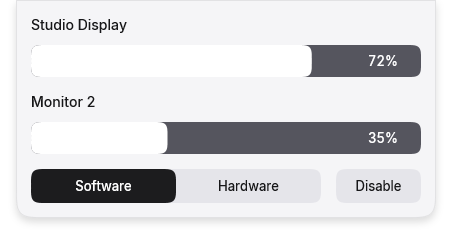
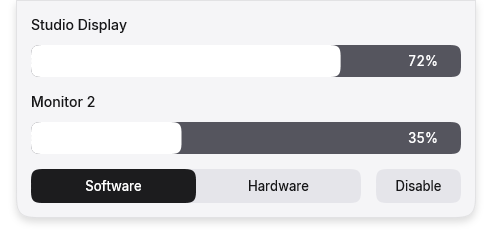
fix: widen the island panel to 460 DIP

diff --git a/tests/RendererTests.cpp b/tests/RendererTests.cpp
@@ -46,35 +46,35 @@ int wmain(int argc, wchar_t** argv) try {
         const std::wstring path = argc > 1 ? std::wstring(argv[1]) + L"/" + output : L"";
         CheckHr(renderer.Draw(frame, path.empty() ? nullptr : path.c_str()), "render frame");
     };
-    draw(420, island::PanelHeight(8, 1000), L"five-monitors-dark.png");
+    draw(island::kWidth, island::PanelHeight(8, 1000), L"five-monitors-dark.png");
     scroll = island::kRowStride * 3;
-    draw(420, island::PanelHeight(8, 1000), L"scrolled-dark.png");
+    draw(island::kWidth, island::PanelHeight(8, 1000), L"scrolled-dark.png");
     scroll = 0;
     state.monitors.resize(2);
-    draw(420, island::PanelHeight(2, 1000), L"expanded-dark.png");
+    draw(island::kWidth, island::PanelHeight(2, 1000), L"expanded-dark.png");
     if (argc > 1) {
         frame.keyboardFocus = true;
         frame.focus = {island::Control::Slider, 0};
-        draw(420, island::PanelHeight(2, 1000), L"keyboard-slider-dark.png");
+        draw(island::kWidth, island::PanelHeight(2, 1000), L"keyboard-slider-dark.png");
         frame.focus = {island::Control::Hardware};
-        draw(420, island::PanelHeight(2, 1000), L"keyboard-mode-dark.png");
+        draw(island::kWidth, island::PanelHeight(2, 1000), L"keyboard-mode-dark.png");
         frame.focus = {island::Control::Power};
-        draw(420, island::PanelHeight(2, 1000), L"keyboard-power-dark.png");
+        draw(island::kWidth, island::PanelHeight(2, 1000), L"keyboard-power-dark.png");
         frame.keyboardFocus = false;
         frame.hot = {island::Control::Slider, 0}; frame.hotScale = 0.97f;
-        draw(420, island::PanelHeight(2, 1000), L"pressed-slider-dark.png");
+        draw(island::kWidth, island::PanelHeight(2, 1000), L"pressed-slider-dark.png");
         frame.hot = {island::Control::Power};
-        draw(420, island::PanelHeight(2, 1000), L"pressed-power-dark.png");
+        draw(island::kWidth, island::PanelHeight(2, 1000), L"pressed-power-dark.png");
         frame.hot = {}; frame.hotScale = 1;
     }
     frame.preferences.theme = island::Theme::Light;
-    draw(420, island::PanelHeight(2, 1000), L"expanded-light.png");
+    draw(island::kWidth, island::PanelHeight(2, 1000), L"expanded-light.png");
     state.mode = BrightnessMode::Hardware;
     frame.modePosition = 1;
-    draw(420, island::PanelHeight(2, 1000), L"hardware-light.png");
+    draw(island::kWidth, island::PanelHeight(2, 1000), L"hardware-light.png");
     CheckHr(renderer.Resize(144, island::PanelHeight(5, 1000)), "resize for DPI");
     scale = 1.5f;
-    draw(420, island::PanelHeight(2, 1000), L"expanded-144.png");
+    draw(island::kWidth, island::PanelHeight(2, 1000), L"expanded-144.png");
     scale = 1;
     CheckHr(renderer.Resize(96, island::PanelHeight(5, 1000, 340)), "resize for narrow desktop");
     draw(340, island::PanelHeight(2, 1000, 340), L"narrow-light.png");

diff --git a/tests/PopupTests.cpp b/tests/PopupTests.cpp
@@ -183,7 +183,7 @@ int main() try {
     RECT suggested{100, 150, 900, 750};
     popup.HandleMessage(popup.GetHWnd(), WM_DPICHANGED, MAKELONG(144, 144), reinterpret_cast<LPARAM>(&suggested));
     GetWindowRect(popup.GetHWnd(), &actual);
-    Check(actual.top == monitor.rcMonitor.top && actual.right - actual.left == 678, "DPI preserves top anchor and DIP width");
+    Check(actual.top == monitor.rcMonitor.top && actual.right - actual.left == static_cast<LONG>((island::kWidth + 2 * island::kShadowMargin) * 1.5f), "DPI preserves top anchor and DIP width");
     popup.HandleMessage(popup.GetHWnd(), WM_DPICHANGED, MAKELONG(96, 96), reinterpret_cast<LPARAM>(&suggested));
     popup.SetPreferences({island::Theme::Light, false, true});
     popup.Hide(true); popup.Toggle({0, 0}); Settle(popup);

diff --git a/Win-Brightness/src/ui/PopupView.cpp b/Win-Brightness/src/ui/PopupView.cpp
@@ -56,7 +56,7 @@ struct PopupView::Impl {
     island::IdleDismissal dismissal;
     std::optional<POINT> lastPointer;
     std::wstring dragId, tooltipText;
-    float scroll = 0, maximumHeight = 449, maximumWidth = 420;
+    float scroll = 0, maximumHeight = 449, maximumWidth = island::kWidth;
     UINT dpi = 96, graphicsRetries = 0;
     HRESULT renderError = S_OK;
     std::array<bool, kShortcuts.size()> shortcuts{};

diff --git a/Win-Brightness/src/ui/island/Layout.h b/Win-Brightness/src/ui/island/Layout.h
@@ -6,7 +6,7 @@
 
 namespace island {
 inline constexpr float kMinimumHeight = 64.0f;
-inline constexpr float kWidth = 420.0f;
+inline constexpr float kWidth = 460.0f;
 inline constexpr float kPadding = 15.0f;
 inline constexpr float kRowHeight = 62.0f;
 inline constexpr float kRowGap = 15.0f;

diff --git a/docs/UI.md b/docs/UI.md
@@ -29,7 +29,7 @@ All values below are DIP. The shell's top is exactly `rcMonitor.top`; the 16-DIP
 
 | Metric | Value |
 | --- | --- |
-| Panel width | 420, reduced to fit available screen width |
+| Panel width | 460, reduced to fit available screen width |
 | Panel height | 64 + 77 × visible rows; two rows = 218, five = 449 |
 | Visible rows | At most 5; smaller available height further limits the viewport |
 | Outer padding | 15 on all sides |
